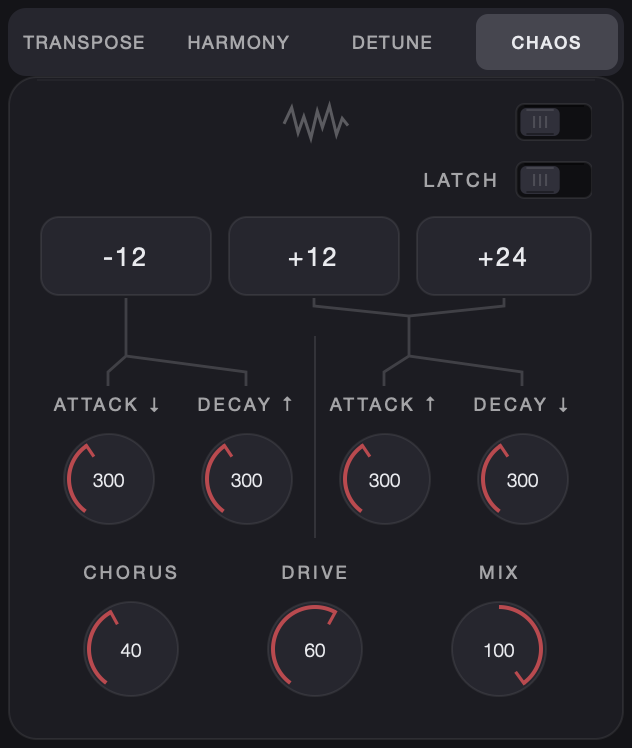
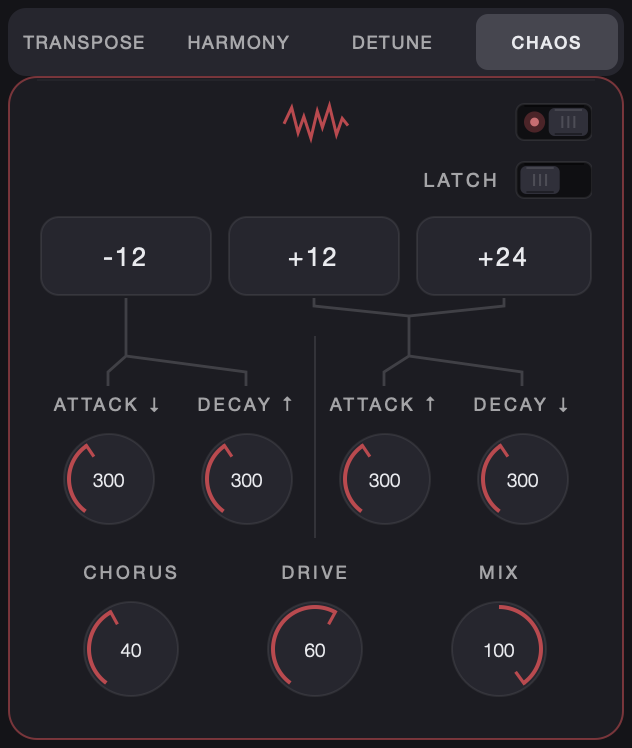
Transpose page: all effects on in shots, full-width hero image
Re-rendered UiSnapshot with every module switched on (new --on flag in the
Transpose repo), used the no-tuner full view as a full-width hero with the
summary and specs side by side below, and fixed gallery images to keep
their aspect ratio (height: auto).

diff --git a/transpose/index.html b/transpose/index.html
@@ -36,9 +36,9 @@
 <main class="wrap">
   <div class="crumbs"><a href="../">Home</a> / <a href="../#products">Products</a> / Transpose</div>
 
-  <section class="product">
+  <section class="product product-wide">
     <div class="gallery">
-      <img src="../img/transpose-ui.png" alt="Transpose plugin interface showing Transpose, Harmony, Detune and Chaos modules">
+      <img src="../img/transpose-ui.png" alt="Transpose plugin with all four effects on: Transpose, Harmony, Detune and Chaos" width="1224" height="524">
     </div>
     <div class="summary">
       <h1>Transpose</h1>
@@ -46,14 +46,14 @@
       <p><strong>Real-time guitar pitch shifting with near-zero attack latency.</strong> Four effects in one
         plugin: whole-guitar transpose, scale-aware harmony, detune, and a momentary chaos sweep.</p>
       <button class="btn primary" data-buy="transpose">Buy now</button>
-      <ul class="specs">
+    </div>
+    <ul class="specs">
         <li><span>Formats</span><span>AU, VST3</span></li>
         <li><span>macOS</span><span>11.0+, Apple silicon &amp; Intel</span></li>
         <li><span>Windows</span><span>VST3</span></li>
         <li><span>Activation</span><span>Sign in with your Azul Audio account</span></li>
         <li><span>Delivery</span><span>Instant download from your account</span></li>
-      </ul>
-    </div>
+    </ul>
   </section>
 
   <section class="details">

diff --git a/style.css b/style.css
@@ -117,7 +117,12 @@ h1, h2, h3 { font-family: var(--head); color: var(--ink); line-height: 1.15; mar
 .crumbs a { color: var(--muted); text-decoration: none; }
 .product { display: grid; grid-template-columns: 1fr 1fr; gap: 48px; padding: 24px 0 64px; align-items: start; }
 .product .gallery { display: grid; gap: 12px; }
-.product .gallery img { width: 100%; border: 1px solid var(--line); }
+.product .gallery img { width: 100%; height: auto; border: 1px solid var(--line); }
+/* Wide product shot (Transpose): image across the top, summary + specs side by side below */
+.product-wide { grid-template-columns: 1.1fr 1fr; gap: 32px 48px; }
+.product-wide .gallery { grid-column: 1 / -1; }
+.product-wide .gallery img { border: 0; border-radius: 12px; background: #1e1f23; box-shadow: 0 10px 30px rgba(0,0,0,.18); }
+.product-wide .specs { margin-top: 0; align-self: start; }
 .product h1 { font-size: 36px; }
 .product .price { font: 600 24px/1 var(--head); color: var(--accent-ink); margin: 8px 0 20px; }
 .product .summary p { margin: 0 0 16px; }
